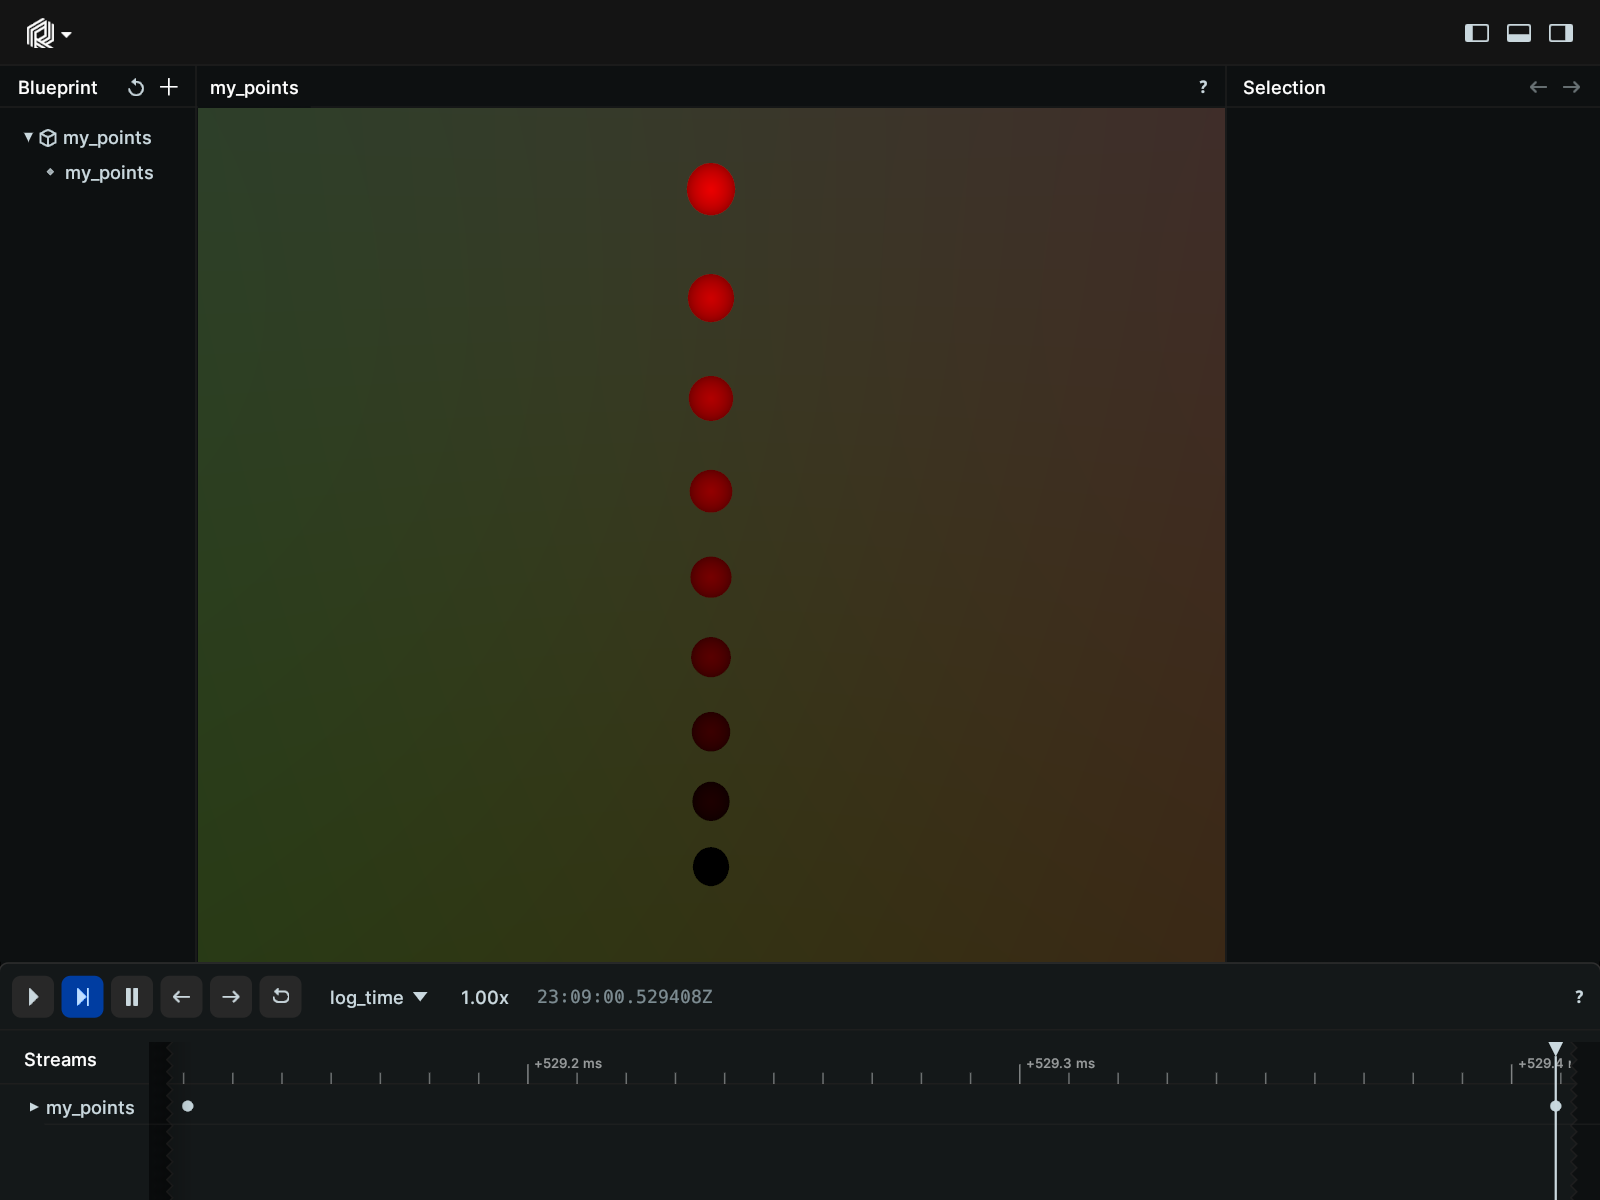
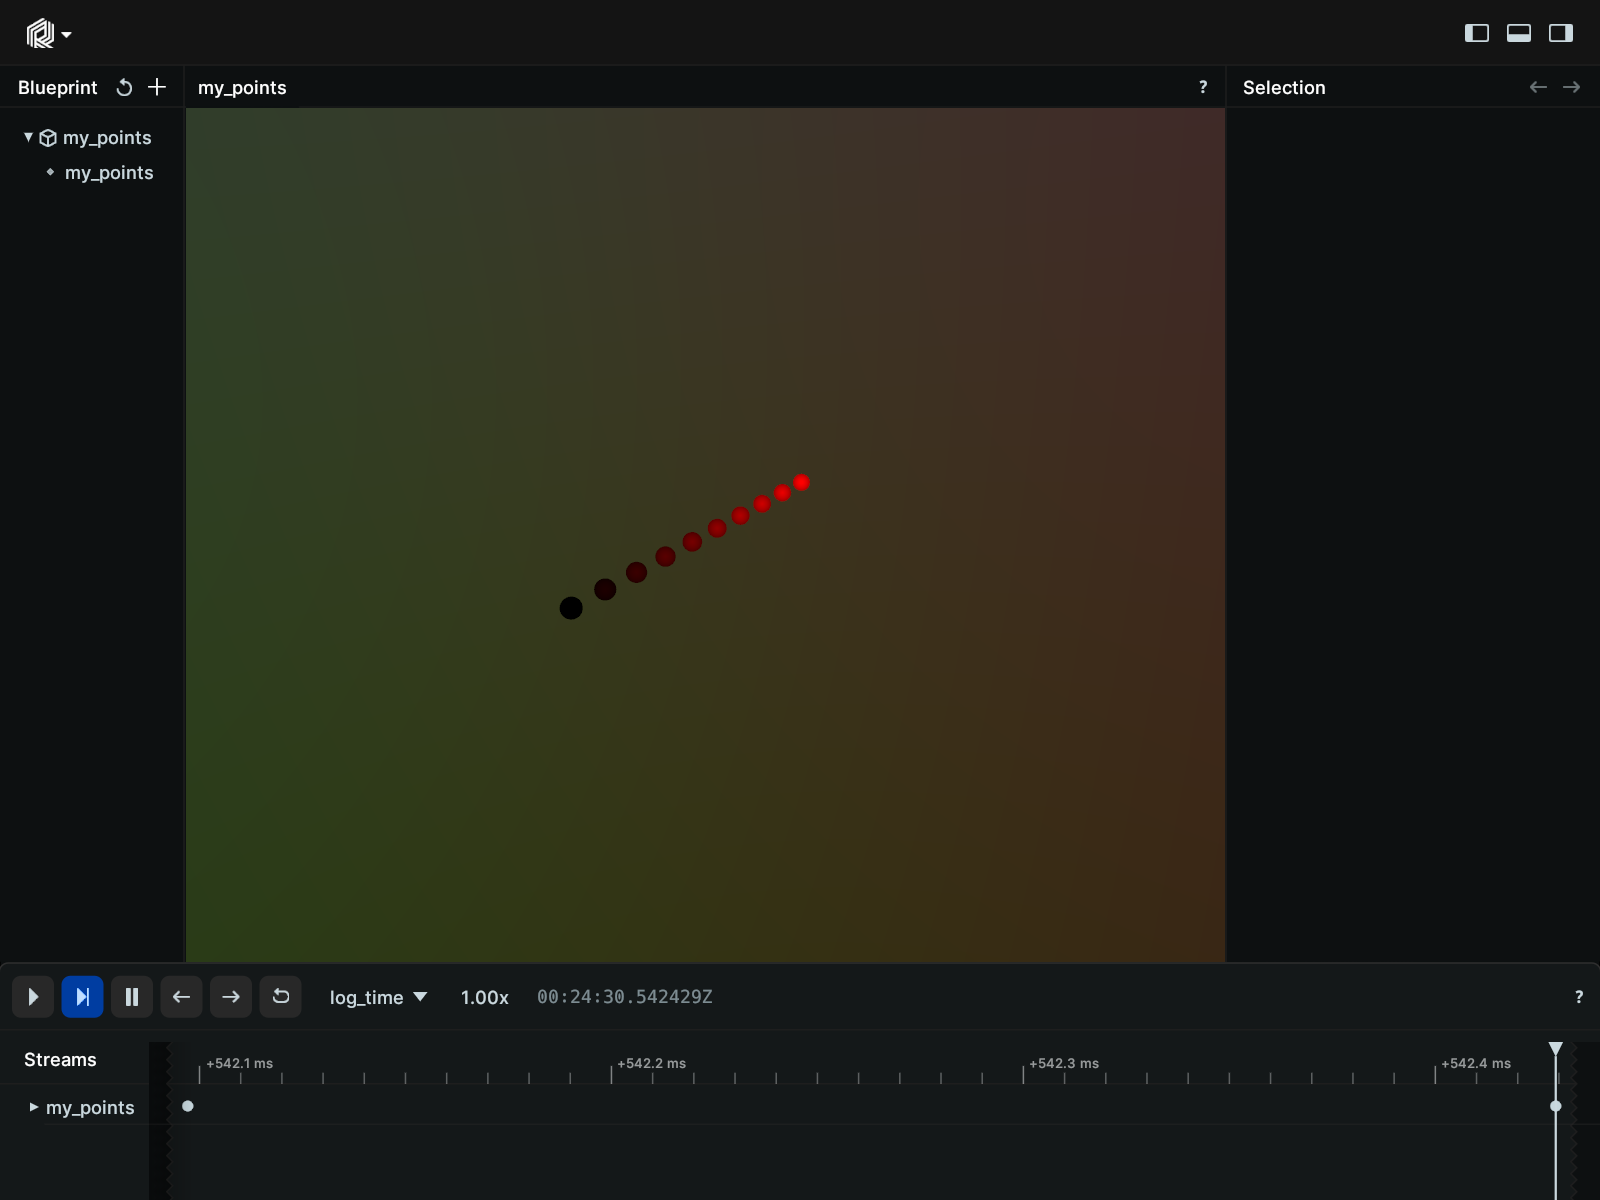
Keep dimension/colors consistent

diff --git a/docs/getting-started/python.md b/docs/getting-started/python.md
@@ -58,7 +58,7 @@ import numpy as np
 rr.init("my data", spawn=True)
 
 positions = np.zeros((10, 3))
-positions[:,2] = np.linspace(-10,10,10)
+positions[:,0] = np.linspace(-10,10,10)
 
 colors = np.zeros((10,3), dtype=np.uint8)
 colors[:,0] = np.linspace(0,255,10)
